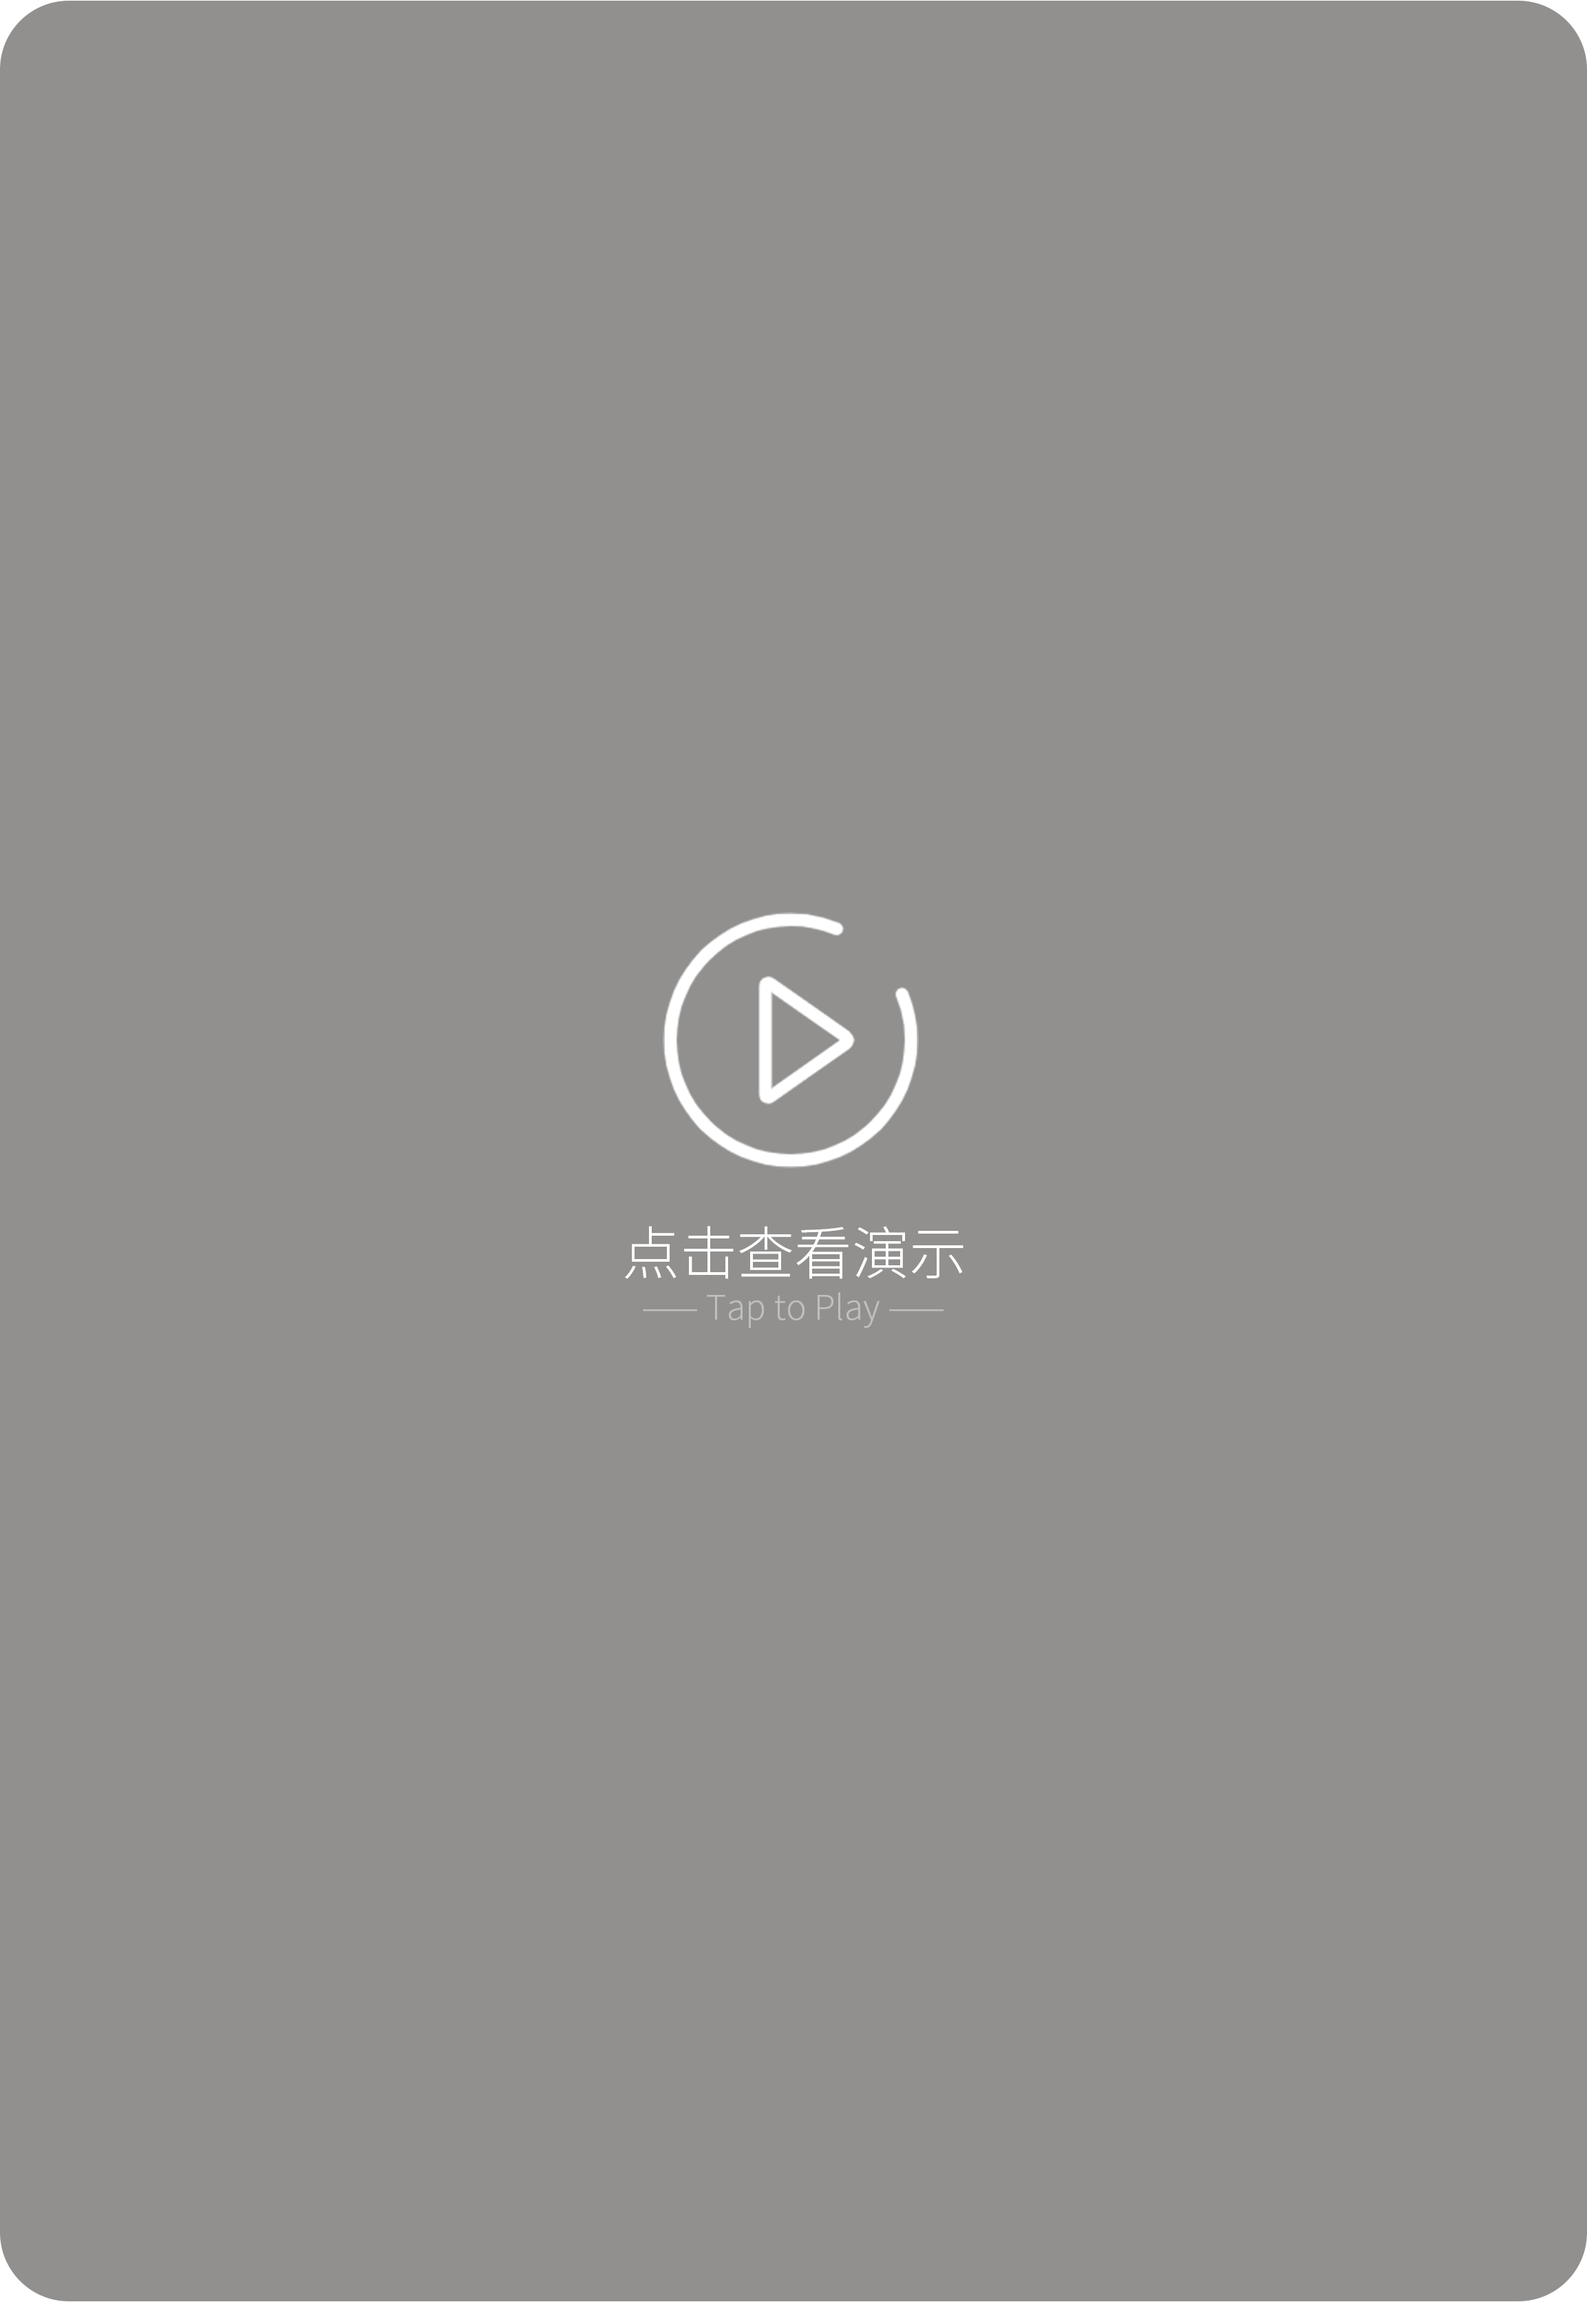
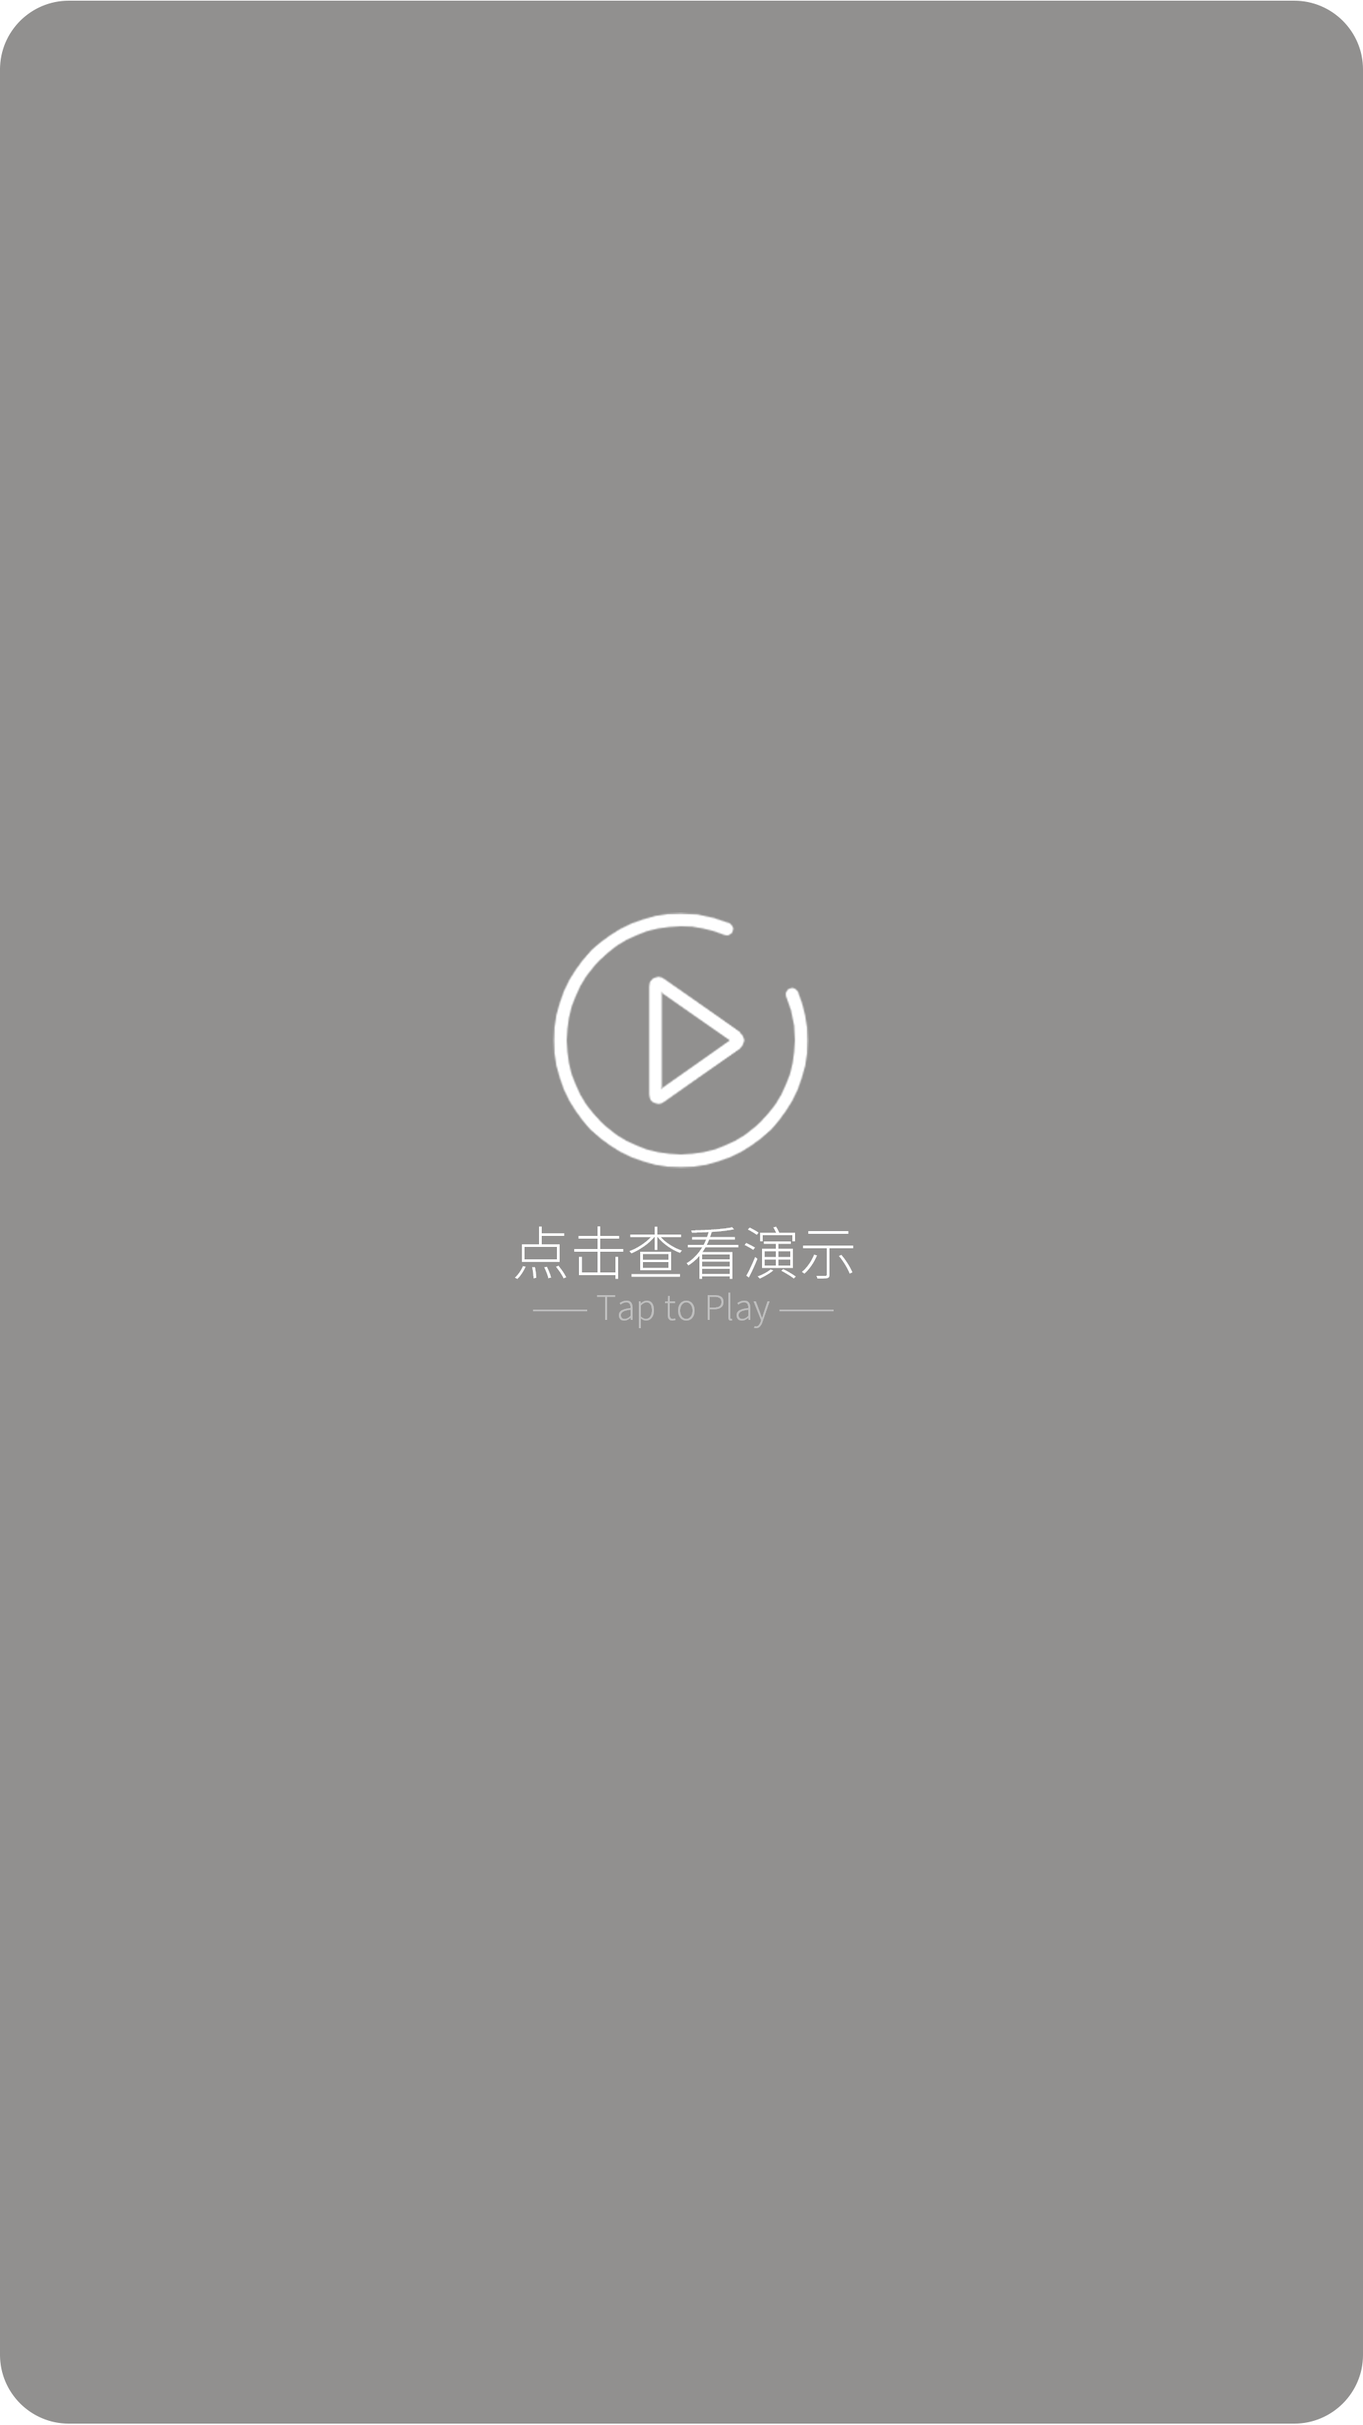
fix(618): 修改功能订阅视频播放组件大小
修改功能订阅视频播放组件大小

Changed region(s): [[0.3697, 0.3732, 0.6162, 0.5598], [0.9551, 0.9952, 0.9859, 1.0], [0.0308, 0.9952, 0.0616, 1.0]]

diff --git a/src/views/active/functionSubscription/index.vue b/src/views/active/functionSubscription/index.vue
@@ -2,7 +2,7 @@
  * @Author: korealu 643949593@qq.com
  * @Date: 2022-05-30 11:15:40
  * @LastEditors: korealu 643949593@qq.com
- * @LastEditTime: 2022-06-02 17:30:07
+ * @LastEditTime: 2022-06-06 13:42:58
  * @FilePath: /h5-active-v2/src/views/active/functionSubscription/index.vue
  * @Description: 这是默认设置,请设置`customMade`, 打开koroFileHeader查看配置 进行设置: https://github.com/OBKoro1/koro1FileHeader/wiki/%E9%85%8D%E7%BD%AE
 -->
@@ -98,8 +98,8 @@ export default {
         // videojs options
         muted: false,
         language: "zh-CN",
-        width: 338,
-        height: 490,
+        width: 290,
+        height: 516,
         preload: "auto",
         sources: [
           {
@@ -192,7 +192,8 @@ export default {
 </script>
 <style>
 .vjs-poster,
-.video-js {
+.video-js,
+.video-js .vjs-tech {
   background-color: RGBA(145, 144, 143, 1);
   border-radius: 20px;
 }
@@ -277,8 +278,8 @@ export default {
       }
     }
     .img-video {
-      width: 338px;
-      height: 490px;
+      width: 290px;
+      height: 516px;
       margin-bottom: 20px;
       .video {
         width: 100%;
